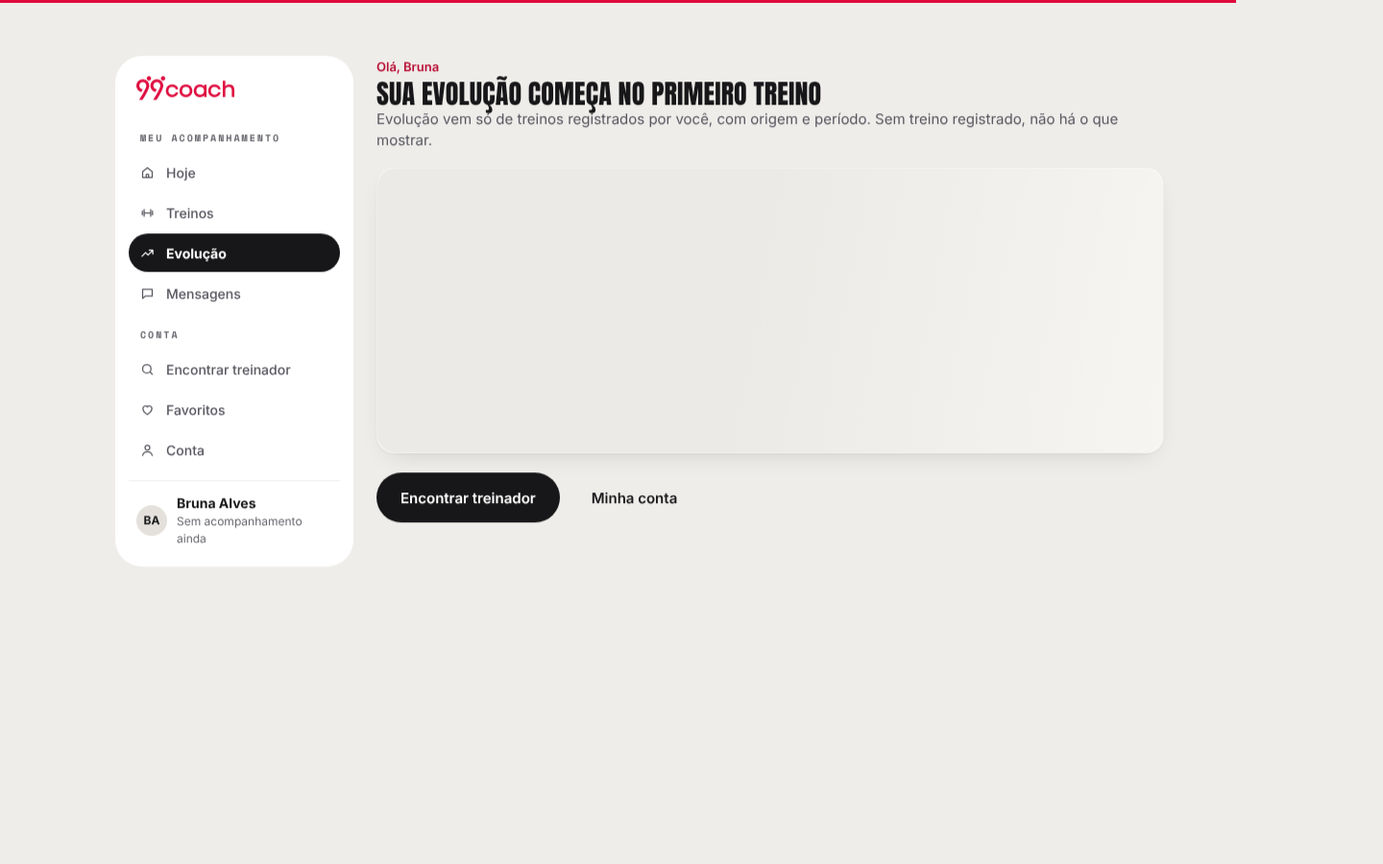
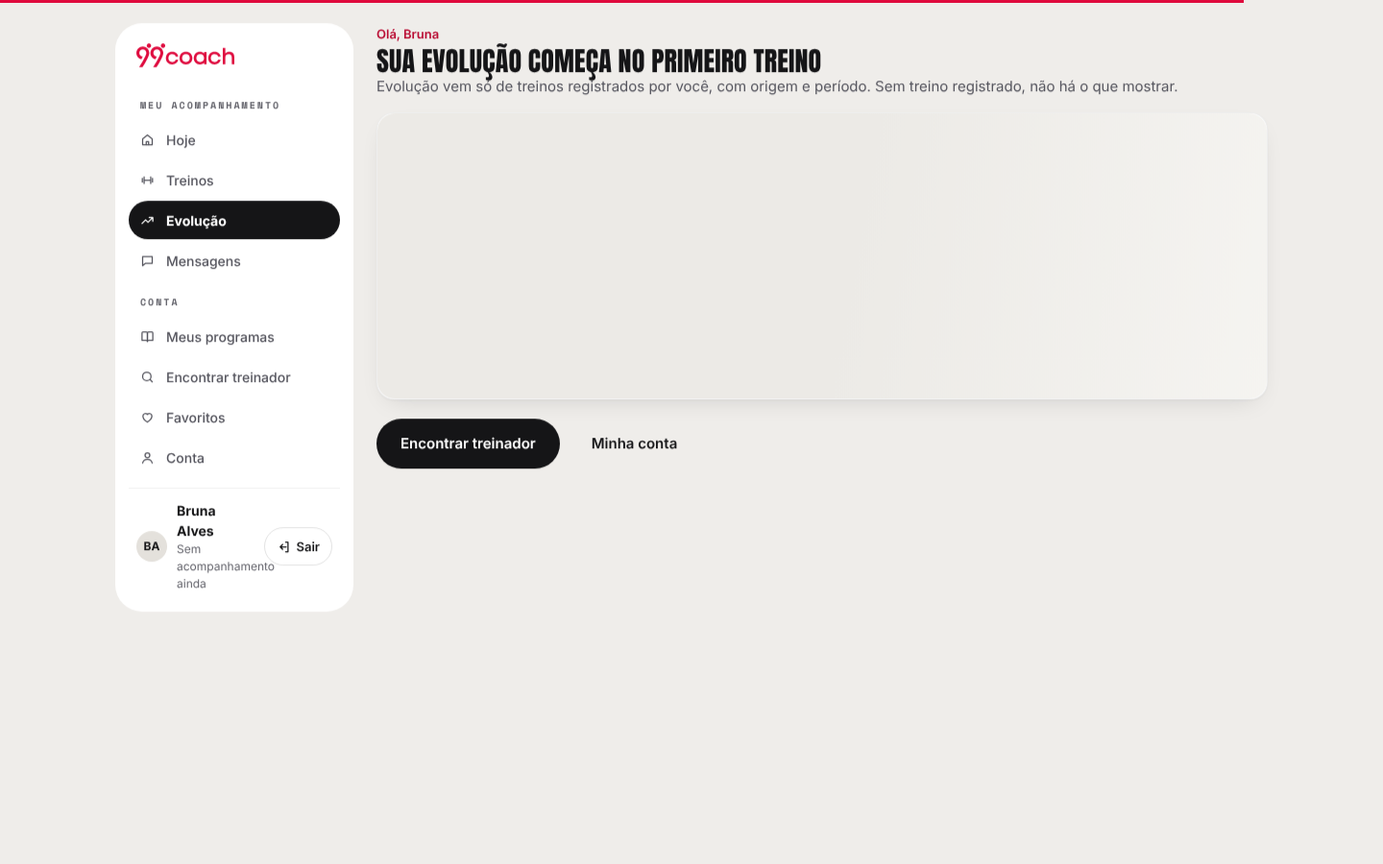
Corrige erros 500 e achados da auditoria de 17/11
- consulta de perfis ocultos em GET com cache de 5 minutos (a versão sem cache quebrava páginas estáticas com erro 500)
- cadastro pelo Entrar começa sem nome e e-mail de exemplo
- Termos de uso e Política de privacidade viram links de verdade, separados da caixa de aceite
- suporte: enquanto não há atendimento com protocolo, a página orienta o Instagram oficial (sem formulário de demonstração)
- artigos de ajuda com endereço próprio (#publico-ajuda-<artigo>), mantido ao recarregar; textos de perfis importados e de idade alinhados
- Programas sai do menu público enquanto não houver programas; /esportes vira página com todas as modalidades
- perfil no celular com título principal (h1) visível
- lista: página e ordem ficam no endereço (?pagina=2&ordem=rec); Esc fecha as sugestões da busca
- mesma contagem de profissionais em português, inglês e espanhol

Claude-Session: https://claude.ai/code/session_01BFaoyRZ4KTG1hCw7AXxypX

diff --git a/src/templates/perfil.html b/src/templates/perfil.html
@@ -59,7 +59,7 @@
       <sc-if value="{{t.noPhoto}}" hint-placeholder-val="{{ false }}"><span class="vfp-mhero__ini" role="img" aria-label="Sem foto de perfil">{{t.ini}}</span></sc-if>
       <sc-if value="{{showSocial}}" hint-placeholder-val="{{ true }}"><button type="button" class="vfp-glass" aria-label="{{favLabel}} perfil" aria-pressed="{{favOn}}" onClick="{{toggleFav}}"><i class="ic ic--sm i-heart" aria-hidden="true"></i></button></sc-if>
       <div class="vfp-mhero__in">
-        <p class="pf-name" aria-hidden="true">{{t.name}}</p>
+        <h1 class="pf-name vfp-mh1">{{t.name}}</h1>
         <span class="vfp-mhero__role">{{mrole}}</span>
         <div class="vfp-mhero__meta"><sc-if value="{{mcref.on}}" hint-placeholder-val="{{ true }}"><span class="tag tag--glass"><sc-if value="{{mcref.ver}}" hint-placeholder-val="{{ true }}"><svg class="verified" viewBox="0 0 24 24" role="img" aria-label="CREF verificado"><path fill="#2563EB" d="M12 1.5l2.3 1.9 3-.3 1 2.8 2.6 1.5-.7 2.9.7 2.9-2.6 1.5-1 2.8-3-.3L12 22.5l-2.3-1.9-3 .3-1-2.8L3.1 16.5l.7-2.9-.7-2.9L5.7 9.2l1-2.8 3 .3z"/><path d="M16.2 9.3l-4.9 4.9-2.6-2.6" fill="none" stroke="#fff" stroke-width="2.1" stroke-linecap="round" stroke-linejoin="round"/></svg></sc-if><sc-if value="{{mcref.inf}}" hint-placeholder-val="{{ false }}"><i class="ic ic--xs i-file" aria-hidden="true"></i></sc-if>{{mcref.t}}</span></sc-if><span><i class="ic ic--xs i-pin" aria-hidden="true"></i> {{mcity}}</span></div>
         <div class="vfp-mhero__chips"><sc-for list="{{mchips}}" as="c" hint-placeholder-count="3"><span class="tag tag--glass">{{c}}</span></sc-for></div>
@@ -74,7 +74,7 @@
             <span class="vfp-av"><sc-if value="{{t.hasPhoto}}" hint-placeholder-val="{{ true }}"><img class="pf-avatar" src="{{t.photo}}" alt="Foto de perfil de {{t.name}}"></sc-if><sc-if value="{{t.noPhoto}}" hint-placeholder-val="{{ false }}"><span class="pf-avatar vfp-ini" role="img" aria-label="Sem foto de perfil">{{t.ini}}</span></sc-if></span>
             <div class="vfp-id__txt">
               <div class="vfp-id__head">
-                <div class="vfp-name"><h1 id="nome" class="pf-name">{{t.name}}</h1><sc-if value="{{t.verified}}" hint-placeholder-val="{{ true }}"><svg class="verified" viewBox="0 0 24 24" role="img" aria-label="CREF verificado"><path fill="#2563EB" d="M12 1.5l2.3 1.9 3-.3 1 2.8 2.6 1.5-.7 2.9.7 2.9-2.6 1.5-1 2.8-3-.3L12 22.5l-2.3-1.9-3 .3-1-2.8L3.1 16.5l.7-2.9-.7-2.9L5.7 9.2l1-2.8 3 .3z"/><path d="M16.2 9.3l-4.9 4.9-2.6-2.6" fill="none" stroke="#fff" stroke-width="2.1" stroke-linecap="round" stroke-linejoin="round"/></svg></sc-if></div>
+                <div class="vfp-name"><h1 id="nome" class="pf-name vfp-dh1">{{t.name}}</h1><sc-if value="{{t.verified}}" hint-placeholder-val="{{ true }}"><svg class="verified" viewBox="0 0 24 24" role="img" aria-label="CREF verificado"><path fill="#2563EB" d="M12 1.5l2.3 1.9 3-.3 1 2.8 2.6 1.5-.7 2.9.7 2.9-2.6 1.5-1 2.8-3-.3L12 22.5l-2.3-1.9-3 .3-1-2.8L3.1 16.5l.7-2.9-.7-2.9L5.7 9.2l1-2.8 3 .3z"/><path d="M16.2 9.3l-4.9 4.9-2.6-2.6" fill="none" stroke="#fff" stroke-width="2.1" stroke-linecap="round" stroke-linejoin="round"/></svg></sc-if></div>
                 <sc-if value="{{showSocial}}" hint-placeholder-val="{{ true }}"><div class="vfp-id__act"><button type="button" class="btn btn--outline btn--sm" aria-pressed="{{favOn}}" onClick="{{toggleFav}}"><i class="ic ic--xs i-heart" aria-hidden="true" style="{{favIc}}"></i>{{favLabel}}</button><button type="button" class="btn btn--outline btn--sm" onClick="{{openShare}}"><i class="ic ic--xs i-share" aria-hidden="true"></i>Compartilhar</button></div></sc-if>
               </div>
               <p class="vfp-line">{{vrole}}</p>

diff --git a/public/js/publico/20-ajuda.js b/public/js/publico/20-ajuda.js
@@ -16,13 +16,13 @@
       ], links: [['Privacidade e dados', 'ACC13']] },
     { id: 'perfil', cat: 'conta', title: 'Perfis criados de fonte pública', version: '12/10/2026', lead: 'Alguns perfis são montados com informações públicas, como Instagram, antes de o treinador entrar na 99Coach.',
       sections: [
-        { id: 'origem', h: 'De onde vêm os dados', body: 'Mostramos a fonte e a data da coleta em cada perfil importado. Publicamos só nome, modalidade e região aproximada.' },
+        { id: 'origem', h: 'De onde vêm os dados', body: 'Usamos só o que o próprio profissional já publicou: nome, foto e perfil do Instagram, modalidades e cidade. Cada perfil importado vem marcado como montado com dados públicos. Não publicamos endereço, telefone, preço nem avaliações.' },
         { id: 'corrigir', h: 'Corrigir ou retirar', body: 'Qualquer pessoa citada pode pedir correção ou retirada, sem criar conta. Você recebe um protocolo para acompanhar.' },
         { id: 'reivindicar', h: 'Reivindicar', body: 'Reivindicar é diferente de retirar: você assume o perfil e passa a editá-lo. Excluir uma conta é outro pedido.' }
       ], links: [['Corrigir perfil', 'PUB12']] },
     { id: 'termos', cat: 'politicas', title: 'Termos de uso', version: '15/09/2026', lead: 'Regras de uso da 99Coach para alunos, treinadores e visitantes.',
       sections: [
-        { id: 'quem', h: 'Quem pode usar', body: 'Pessoas a partir de 18 anos, ou com autorização do responsável quando a oferta permitir.' },
+        { id: 'quem', h: 'Quem pode usar', body: 'Pessoas a partir de 18 anos. Para criar a conta, você confirma a idade no cadastro.' },
         { id: 'contratacao', h: 'Contratações', body: 'O acompanhamento é combinado entre aluno e treinador. Pagamento, cancelamento e reembolso seguem o artigo Pagamentos e reembolsos.' },
         { id: 'conteudo', h: 'Conteúdo publicado', body: 'Quem publica responde pelo que publica. Denúncias abrem um caso com protocolo.' }
       ], links: [] },
@@ -71,6 +71,7 @@
       var sending = scn === 'enviando';
 
       var open = function (id, sec) { return function () { ctx.setUi({ view: 'art', art: id, sec: sec || '', lang: 'pt', why: false }); }; };
+      try { var want = window.__NEXT ? '/app#publico-ajuda' + (view === 'art' ? '-' + artId : '') : null; if (want && (location.pathname + location.hash) !== want && /^#publico-ajuda/.test(location.hash || '#publico-ajuda')) history.replaceState(history.state, '', want); } catch (_) {}
       var toIndex = function () { ctx.setUi({ view: 'index' }); };
       var cont = function () { if (ctx.p.from) ctx.go(ctx.p.from, ctx.p.fromParams || {}); else ctx.back(); };
       var nav = function (to) { return function () { if (to === '@servico') ctx.go('@servico', { offer: 'online' }); else if (to === 'PUB12') ctx.go('PUB12'); else ctx.go(to); }; };
@@ -130,6 +131,8 @@
       });
 
       return {
+        // suporte de verdade, por enquanto, é o Instagram oficial; o formulário com protocolo só existe na demonstração
+        demoSupport: document.documentElement.classList.contains('demo'), realSupport: !document.documentElement.classList.contains('demo'),
         isIndex: view === 'index', isArt: view === 'art', isContact: view === 'contact', isTrack: view === 'track',
         alerts: alerts, hasAlerts: alerts.length > 0,
         // índice

diff --git a/src/templates/publico.html b/src/templates/publico.html
@@ -779,7 +779,19 @@
           <!-- contato: abre caso com protocolo -->
           <sc-if value="{{v.isContact}}" hint-placeholder-val="{{ false }}">
             <div><button type="button" class="btn btn--ghost btn--sm p2-backlink" onClick="{{v.toIndex}}"><i class="ic ic--sm i-chev-l" aria-hidden="true"></i>Ajuda</button></div>
-            <div class="pghead"><div class="pghead__txt"><h1 class="pghead__title">Falar com o suporte</h1><p class="pghead__sub">Abrir um caso não significa que ele já foi resolvido. Você recebe um protocolo para acompanhar.</p></div></div>
+            <div class="pghead"><div class="pghead__txt"><h1 class="pghead__title">Falar com o suporte</h1><sc-if value="{{v.demoSupport}}" hint-placeholder-val="{{ false }}"><p class="pghead__sub">Abrir um caso não significa que ele já foi resolvido. Você recebe um protocolo para acompanhar.</p></sc-if><sc-if value="{{v.realSupport}}" hint-placeholder-val="{{ true }}"><p class="pghead__sub">Por enquanto o atendimento é feito pelo Instagram oficial da 99Coach.</p></sc-if></div></div>
+            <sc-if value="{{v.realSupport}}" hint-placeholder-val="{{ true }}"><div class="mod-grid2">
+              <section class="card onb-sec" aria-label="Como falar com a equipe"><h2 class="onb-h2">Mande uma mensagem direta</h2>
+                <p class="p2-p">Escreva para <b>@99coach.oficial</b> no Instagram contando o que aconteceu e, se for o caso, o endereço da página. Respondemos por lá.</p>
+                <p class="p2-p">Nunca envie senha, código de verificação nem dados de cartão.</p>
+                <div class="onb-actions"><a class="btn btn--primary btn--lg" href="https://www.instagram.com/99coach.oficial/" target="_blank" rel="noopener">Abrir @99coach.oficial<i class="ic ic--sm i-arrow-r" aria-hidden="true"></i></a></div>
+              </section>
+              <aside class="mod-col" aria-label="Outros caminhos">
+                <section class="card onb-sec"><h2 class="onb-h2">Corrigir ou remover um perfil</h2><p class="p2-p">Use o botão na página do próprio perfil: o pedido gera um protocolo e não precisa de conta.</p></section>
+                <section class="card onb-sec"><h2 class="onb-h2">Pagamentos</h2><p class="p2-p">Cobrança, cancelamento e reembolso seguem a mesma regra da oferta.</p><button type="button" class="btn btn--outline" onClick="{{v.openPay}}">Ler Pagamentos e reembolsos</button></section>
+              </aside>
+            </div></sc-if>
+            <sc-if value="{{v.demoSupport}}" hint-placeholder-val="{{ false }}">
             <div class="mod-grid2">
               <section class="card onb-sec" aria-label="Sua solicitação">
                 <sc-if value="{{v.notSending}}" hint-placeholder-val="{{ true }}">
@@ -798,6 +810,7 @@
                 <section class="card onb-sec"><h2 class="onb-h2">Antes de enviar</h2><p class="p2-p">Cobrança, cancelamento e reembolso seguem a mesma regra da oferta.</p><button type="button" class="btn btn--outline" onClick="{{v.openPay}}">Ler Pagamentos e reembolsos</button></section>
               </aside>
             </div>
+            </sc-if>
           </sc-if>
 
           <!-- acompanhamento do caso -->

diff --git a/public/js/pages/esporte.js b/public/js/pages/esporte.js
@@ -4,7 +4,7 @@ PAGES.esporte = { Comp: (function () {
 class Component extends DCLogic {
   static img(id) { return window.__IMG[id] || ''; }
 
-  constructor(props) { super(props); this.state = Object.assign({}, this.base(), (props && props.init) || {}); try { const mu = /[?&]uf=([a-z]{2})(&|$)/i.exec(location.search); if (mu && props && props.init && !props.init.city && /^\/treinadores\/[^/]+\/?$/.test(location.pathname)) { this.state.city = 'UF:' + mu[1].toUpperCase(); this.state.fmt = 'Presencial'; } } catch (_) {} try { if (!Component.__cap && typeof document !== 'undefined' && document.addEventListener) { Component.__cap = 1; document.addEventListener('click', (e) => { try { const t = e.target; const el = (t && t.closest && t.closest('button,a,[role=switch]')) || t; const r = el.getBoundingClientRect(); Component.__y = Math.max(12, Math.round(r.top + (window.scrollY || window.pageYOffset || 0) - 24)); } catch (_) {} }, true); } } catch (_) {} }
+  constructor(props) { super(props); this.state = Object.assign({}, this.base(), (props && props.init) || {}); try { const mp = /[?&]pagina=(\d{1,4})(&|$)/.exec(location.search), mo = /[?&]ordem=(rel|rec)(&|$)/.exec(location.search); if (mp && +mp[1] > 1) this.state.page = +mp[1]; if (mo) this.state.sort = mo[1]; } catch (_) {} try { const mu = /[?&]uf=([a-z]{2})(&|$)/i.exec(location.search); if (mu && props && props.init && !props.init.city && /^\/treinadores\/[^/]+\/?$/.test(location.pathname)) { this.state.city = 'UF:' + mu[1].toUpperCase(); this.state.fmt = 'Presencial'; } } catch (_) {} try { if (!Component.__cap && typeof document !== 'undefined' && document.addEventListener) { Component.__cap = 1; document.addEventListener('click', (e) => { try { const t = e.target; const el = (t && t.closest && t.closest('button,a,[role=switch]')) || t; const r = el.getBoundingClientRect(); Component.__y = Math.max(12, Math.round(r.top + (window.scrollY || window.pageYOffset || 0) - 24)); } catch (_) {} }, true); } } catch (_) {} }
   base() { return { scen: 'londrina', mod: 'CrossFit', city: 'Londrina, PR', fmt: 'Presencial', lang: 'Qualquer', avail: false, sort: 'rel', sortInfo: false, page: 1, more: 0, view: 'lista', mapCap: 'off', load: 'ok', removed: false, sheet: '', pend: null, favs: {}, toast: null, sel: '', open: '', back: '', faq: 0, seo: false, codeSent: false, auth: 'login', loc: '', info: '', prog: -1, dd: '', foco: '', area: '' }; }
   renderVals() {
     if (window.FAV && !document.documentElement.classList.contains('demo')) this.state.favs = window.FAV.map();

diff --git a/app/esportes/page.js b/app/esportes/page.js
@@ -1,0 +1,32 @@
+// Todas as modalidades com treinadores publicados (endereço /esportes, usado no rodapé e por links antigos).
+import Shell from '../../components/Shell.js';
+import { esportes, lista, plural, SITE } from '../../lib/catalogo.js';
+
+export const revalidate = 3600;
+export const metadata = {
+  title: 'Esportes e modalidades',
+  description: 'Todas as modalidades com personal trainer e professores no 99coach: musculação, pilates, corrida, CrossFit, lutas e mais, presencial ou online.',
+  alternates: { canonical: '/esportes' }
+};
+
+export default function Esportes() {
+  const E = esportes();
+  const trilha = { '@context': 'https://schema.org', '@type': 'BreadcrumbList', itemListElement: [{ '@type': 'ListItem', position: 1, name: 'Início', item: SITE + '/' }, { '@type': 'ListItem', position: 2, name: 'Esportes', item: SITE + '/esportes' }] };
+  return (
+    <Shell soServidor>
+      <nav className="ssr-crumb" aria-label="Você está em"><a href="/">Início</a> › <span>Esportes</span></nav>
+      <section className="ssr-hero">
+        <h1>Esportes e modalidades</h1>
+        <p>{plural(E.length, 'modalidade', 'modalidades')} com treinadores publicados. Escolha uma para ver quem atende na sua cidade ou online.</p>
+      </section>
+      <section aria-labelledby="h-mods"><h2 id="h-mods">Todas as modalidades</h2>
+        <ul className="ssr-tiles">{E.filter((s) => s.foto).map((s) => <li key={s.slug}><a href={'/treinadores/' + s.slug}><img src={s.foto} alt="" loading="lazy" decoding="async" width="320" height="200" /><b>{s.label}</b><small>{plural(s.n, 'treinador', 'treinadores')}</small></a></li>)}</ul>
+        <ul className="ssr-chips" style={{ marginTop: 12 }}>{E.filter((s) => !s.foto).map((s) => <li key={s.slug}><a href={'/treinadores/' + s.slug}>{s.label} <small>{s.n}</small></a></li>)}</ul>
+      </section>
+      <section aria-labelledby="h-on"><h2 id="h-on">Atendimento online</h2>
+        <ul className="ssr-chips">{E.filter((s) => lista(s.slug, 'online').length).map((s) => <li key={s.slug}><a href={'/treinadores/' + s.slug + '/online'}>{s.label} online <small>{lista(s.slug, 'online').length}</small></a></li>)}</ul>
+      </section>
+      <script type="application/ld+json" dangerouslySetInnerHTML={{ __html: JSON.stringify(trilha).replace(/</g, '\\u003c') }} />
+    </Shell>
+  );
+}

diff --git a/lib/catalogo.js b/lib/catalogo.js
@@ -48,7 +48,7 @@ let OCULTOS = new Set(), ocultosEm = 0, ocultosP = null;
 const SBX = 'https://rycaxboqkkiopjdecgld.supabase.co', SBXKEY = 'sb_publishable_dPQ0596gx0ok94wUE4POtw_T-QjY8Cq';
 function atualizarOcultos() {
   if (ocultosP) return ocultosP;
-  ocultosP = fetch(SBX + '/rest/v1/rpc/hidden_trainer_slugs', { method: 'POST', headers: { apikey: SBXKEY, 'Content-Type': 'application/json' }, body: '{}', cache: 'no-store', signal: AbortSignal.timeout(2500) })
+  ocultosP = fetch(SBX + '/rest/v1/rpc/hidden_trainer_slugs', { headers: { apikey: SBXKEY }, next: { revalidate: 300 }, signal: AbortSignal.timeout(2500) })
     .then((r) => (r.ok ? r.json() : null))
     .then((d) => { if (Array.isArray(d)) { const novo = new Set(d.map((x) => (typeof x === 'string' ? x : x && x.hidden_trainer_slugs)).filter(Boolean)); if (novo.size !== OCULTOS.size || [...novo].some((x) => !OCULTOS.has(x))) { OCULTOS = novo; cache = null; } } })
     .catch(() => {}).finally(() => { ocultosEm = Date.now(); ocultosP = null; });
@@ -84,7 +84,7 @@ function load() {
   return cache;
 }
 
-export function esportes() { const c = load(); return c.sports.map((s) => ({ ...s, n: c.bySport.get(s.slug).length })).filter((s) => s.n > 0); }
+export function esportes() { const c = load(); return c.sports.map((s) => ({ ...s, n: lista(s.slug, '').length })).filter((s) => s.n > 0); }
 export function esporte(s) { return load().bySlug[s] || null; }
 export function cidade(k) { return load().cities.get(k) || null; }
 export function treinador(id) { return load().byId.get(id) || null; }
@@ -128,7 +128,8 @@ export function lista(sportSlug, onde) {
   if (onde === 'online') return base.filter((t) => t.onl);
   if (ehUF(onde)) return base.filter((t) => t.pres && doUF(t, onde));
   if (onde) return base.filter((t) => t.pres && slug(t.city) === onde);
-  return base;
+  // "qualquer formato": quem atende presencialmente (com cidade) ou online; perfil sem nenhum dos dois não entra em lista (igual ao app)
+  return base.filter((t) => t.pres || t.onl);
 }
 // cidades com treinadores presenciais daquele esporte, da mais numerosa para a menos
 export function cidadesDo(sportSlug, min = 1) {

diff --git a/src/templates/onboarding.html b/src/templates/onboarding.html
@@ -46,7 +46,7 @@
           </div>
           <sc-if value="{{f.askPw}}" hint-placeholder-val="{{ true }}"><div class="field"><label class="field__label" for="onb-senha">Senha</label><div class="{{f.pwCls}}"><input id="onb-senha" type="password" autocomplete="{{f.pwAuto}}" value="{{f.pw}}" onInput="{{f.setPw}}" aria-describedby="onb-senha-msg"></div><span class="field__help" id="onb-senha-msg">{{f.pwHelp}}</span><sc-if value="{{f.canForgot}}" hint-placeholder-val="{{ false }}"><button type="button" class="btn btn--ghost btn--sm" style="align-self: flex-start" onClick="{{f.forgot}}">Esqueci a senha</button></sc-if></div></sc-if>
           <sc-if value="{{f.emailExists}}" hint-placeholder-val="{{ false }}"><button type="button" class="btn btn--primary btn--lg btn--block" onClick="{{f.loginExisting}}">Entrar com esta conta</button></sc-if>
-          <sc-if value="{{conta.askTerms}}" hint-placeholder-val="{{ true }}"><button type="button" class="onb-checkrow" role="checkbox" aria-checked="{{f.termsOn}}" onClick="{{f.toggleTerms}}"><span class="{{f.termsCls}}" aria-hidden="true"><i class="ic ic--xs i-check"></i></span><span>Tenho 18 anos ou mais e aceito os <u>Termos de uso</u> e a <u>Política de privacidade</u>.</span></button>
+          <sc-if value="{{conta.askTerms}}" hint-placeholder-val="{{ true }}"><div class="onb-checkrow onb-checkrow--docs"><button type="button" class="onb-checkbox" role="checkbox" aria-checked="{{f.termsOn}}" aria-labelledby="onb-terms-t" onClick="{{f.toggleTerms}}"><span class="{{f.termsCls}}" aria-hidden="true"><i class="ic ic--xs i-check"></i></span></button><span id="onb-terms-t"><span class="onb-terms-hit" onClick="{{f.toggleTerms}}">Tenho 18 anos ou mais e aceito os </span><a href="/termos" target="_blank" rel="noopener">Termos de uso</a> e a <a href="/privacidade" target="_blank" rel="noopener">Política de privacidade</a>.</span></div>
             <sc-if value="{{f.termsErr}}" hint-placeholder-val="{{ false }}"><span class="field__err" role="alert">Para criar a conta, confirme que tem 18 anos ou mais e aceite os Termos. A opção não vem marcada.</span></sc-if>
           </sc-if>
         </div>

diff --git a/public/js/runtime.js b/public/js/runtime.js
@@ -244,7 +244,9 @@
     if (name === 'home') return '/';
     if (name === 'esporte') {
       var e = st || (props && props.init) || {};
-      return '/treinadores/' + sportSlug(e.mod || 'CrossFit') + (e.fmt === 'Online' ? '/online' : (/^UF:/.test(e.city || '') ? '/' + e.city.slice(3).toLowerCase() : (e.city ? '/' + slug(e.city) : '')));
+      // página e ordem ficam no endereço (?pagina=2&ordem=rec): o link compartilhado abre igual
+      var q = []; if (e.page > 1) q.push('pagina=' + e.page); if (e.sort && e.sort !== 'rel') q.push('ordem=' + e.sort);
+      return '/treinadores/' + sportSlug(e.mod || 'CrossFit') + (e.fmt === 'Online' ? '/online' : (/^UF:/.test(e.city || '') ? '/' + e.city.slice(3).toLowerCase() : (e.city ? '/' + slug(e.city) : ''))) + (q.length ? '?' + q.join('&') : '');
     }
     if (name === 'perfil' && props && props.rid) return '/treinador/' + encodeURIComponent(props.rid);
     return '/app#' + token(name, props);
@@ -343,7 +345,7 @@
     syncUrl: function () {
       if (!window.__NEXT || !cur || cur.name !== 'esporte' || !cur.comp || !cur.comp.state) return;
       var u = urlFor('esporte', (entries[cur.key] || {}).props, cur.comp.state);
-      if (u !== location.pathname + (/[?&]uf=/.test(location.search) ? location.search : '') || (/[?&]uf=/.test(location.search) && u === location.pathname)) { try { history.replaceState(history.state, '', u); } catch (_) {} }
+      if (u !== location.pathname + location.search) { try { history.replaceState(history.state, '', u); } catch (_) {} }
       // mesmo título que o servidor entrega para este endereço
       var e = cur.comp.state, T0 = window.__T0 || (window.__T0 = { path: location.pathname, title: document.title });
       // no endereço em que a pessoa chegou vale o título do servidor; ao trocar esporte ou cidade, um título simples e correto

diff --git a/lib/sitemaps.js b/lib/sitemaps.js
@@ -9,7 +9,7 @@ export function xml(urls) {
     { headers: { 'Content-Type': 'application/xml; charset=utf-8', 'Cache-Control': 'public, max-age=3600, s-maxage=86400, stale-while-revalidate=86400' } });
 }
 const quando = () => atualizadoEm() || new Date().toISOString();
-export const estaticas = () => [{ loc: SITE + '/', lastmod: quando() }, { loc: SITE + '/cidades', lastmod: quando() }, { loc: SITE + '/en', lastmod: quando() }, { loc: SITE + '/es', lastmod: quando() }];
+export const estaticas = () => [{ loc: SITE + '/', lastmod: quando() }, { loc: SITE + '/cidades', lastmod: quando() }, { loc: SITE + '/esportes', lastmod: quando() }, { loc: SITE + '/en', lastmod: quando() }, { loc: SITE + '/es', lastmod: quando() }];
 export const porEsporte = () => esportes().flatMap((s) => [{ loc: `${SITE}/treinadores/${s.slug}`, lastmod: quando() }].concat(lista(s.slug, 'online').length ? [{ loc: `${SITE}/treinadores/${s.slug}/online`, lastmod: quando() }] : []));
 export const porFiltro = () => esportes().flatMap((s) => cidadesDo(s.slug, 1).map((c) => ({ loc: `${SITE}/treinadores/${s.slug}/${c.slug}`, lastmod: quando() }))).concat(cidades(1).map((c) => ({ loc: `${SITE}/cidade/${c.slug}`, lastmod: quando() })));
 export const porPerfil = () => todos().filter((t) => !t.canon).map((t) => ({ loc: `${SITE}/treinador/${t.id}`, lastmod: t.pub || quando() }));

diff --git a/public/js/core.js b/public/js/core.js
@@ -278,7 +278,8 @@
         var demoOn = document.documentElement.classList.contains('demo');
         var allowed = function (it) { return demoOn || it[2] !== 'H15'; };
         var side = ((R && !document.documentElement.classList.contains('demo') && R.sideReal) || (R && R.side) || []).map(function (g) { return { sec: g.sec, items: g.items.filter(allowed).map(mk) }; });
-        var top = (R && R.top || []).map(function (it) { var on = it[2] === navKey; return { label: it[0], cls: 'v4-reset mod-top__it' + (on ? ' is-on' : ''), cur: on ? 'page' : 'false', go: function () { GO(it[1]); } }; });
+        // Programas só aparece no menu quando houver programas publicados (hoje só na demonstração)
+        var top = (R && R.top || []).filter(function (it) { return it[2] !== 'programas' || document.documentElement.classList.contains('demo'); }).map(function (it) { var on = it[2] === navKey; return { label: it[0], cls: 'v4-reset mod-top__it' + (on ? ' is-on' : ''), cur: on ? 'page' : 'false', go: function () { GO(it[1]); } }; });
         var scens = scr ? [['', scr.normal || 'Uso normal']].concat(scr.scens).map(function (sc) {
           var on = (st.scn || '') === sc[0];
           return { label: sc[1], cls: 'chip' + (on ? ' is-on' : ''), on: String(on), pick: function () { c.setState({ scn: sc[0], sheet: null, toast: '', ui: {} }); } };

diff --git a/public/js/pages/onboarding.js b/public/js/pages/onboarding.js
@@ -79,7 +79,8 @@ class Component extends DCLogic {
   base(flow, scn) {
     const s = {
       flow: flow, scn: scn || '', step: 'conta', intent: flow === 'aluno' ? 'aluno' : (flow === 'treinador' ? 'treinador' : ''), intentErr: false,
-      name: flow === 'aluno' ? 'Marina Costa' : 'Thiago Pereira', email: flow === 'aluno' ? 'marina@email.com' : (flow === 'convite' ? 'ana@email.com' : 'thiago@email.com'),
+      // site de verdade: nome e e-mail começam vazios em qualquer caminho (inclusive Entrar → Criar conta); exemplos só na demonstração
+      name: !document.documentElement.classList.contains('demo') ? '' : (flow === 'aluno' ? 'Marina Costa' : 'Thiago Pereira'), email: !document.documentElement.classList.contains('demo') ? '' : (flow === 'aluno' ? 'marina@email.com' : (flow === 'convite' ? 'ana@email.com' : 'thiago@email.com')),
       terms: false, termsErr: false, emailExists: false, code: '482913', codeErr: false, codeExp: false, session: false,
       sports: { crossfit: true, funcional: true }, city: 'Londrina, PR', pres: true, onl: true, langs: { pt: true }, dadosSaved: false,
       title: 'Treinador de CrossFit e Funcional', pitch: '', bio: '', since: '', photoUrl: '', photoOk: false, photoErr: false,

diff --git a/public/js/real.js b/public/js/real.js
@@ -343,6 +343,7 @@
     var sheet = function () { return document.querySelector('#app [role="dialog"][aria-modal="true"]'); };
     document.addEventListener('click', function (e) { if (!sheet()) opener = e.target && e.target.closest ? e.target.closest('button,a,[tabindex]') : null; }, true);
     document.addEventListener('keydown', function (e) {
+      if (e.key === 'Escape') { var lay = document.querySelector('#app .sx-layer'); if (lay) { var cl = lay.querySelector('.sx-dclose, .sx-cancel'); if (cl && (cl.offsetParent || lay.querySelector('.sx-cancel'))) { e.preventDefault(); var inp = document.querySelector('#app .sx-field'); (cl.offsetParent ? cl : lay.querySelector('.sx-cancel')).click(); setTimeout(function () { var f = document.querySelector('#app .sx-field'); if (f && f.offsetParent) f.focus(); }, 30); return; } } }
       var sh = sheet(); if (!sh) return;
       if (e.key === 'Escape') { var x = sh.querySelector('[aria-label="Fechar"]') || document.querySelector('#app .v4-scrim'); if (x) { e.preventDefault(); x.click(); } return; }
       if (e.key !== 'Tab') return;
